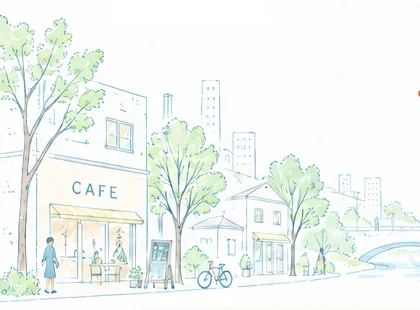
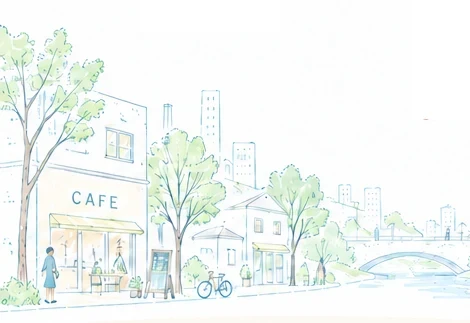
feat: ファーストビューを fndesign-v5.png に合わせて調整（本業をコーラルに、見出しとイラストを大きく）

Changed region(s): [[0.0, 0.029, 1.0, 0.9871], [0.9905, 0.2903, 1.0, 0.3194]]

diff --git a/src/components/HeroV4.tsx b/src/components/HeroV4.tsx
@@ -16,7 +16,7 @@ const CORAL = "#FD7368";
 
 const ja = {
     eyebrow: "埼玉の会社・お店・教室のためのWeb担当",
-    h1a: "あなたは、本業に。",
+    h1a: <>あなたは、<span style={{ color: "#E8503A" }}>本業</span>に。</>,
     h1web: "Web",
     h1b: "は、私たちに。",
     lead: "ホームページ制作から、公開後の更新・管理まで。",
@@ -38,7 +38,7 @@ const ja = {
 
 const en: typeof ja = {
     eyebrow: "WEB SUPPORT FOR COMPANIES, SHOPS AND SCHOOLS IN SAITAMA",
-    h1a: "You run the business.",
+    h1a: <>You run the <span style={{ color: "#E8503A" }}>business</span>.</>,
     h1web: "Web",
     h1b: " is on us.",
     lead: "From building the site to updating and managing it after launch.",
@@ -67,11 +67,11 @@ export default function HeroV4({ lang = "ja" }: { lang?: Lang }) {
             {/* ── 上段：白地。イラストはこの箱の下辺に揃える ── */}
             <div className="relative pt-[108px] md:pt-[120px]">
                 {/* 街並みのイラスト（PCのみ） */}
-                <div aria-hidden className="pointer-events-none absolute bottom-0 left-0 hidden w-[27%] max-w-[420px] lg:block">
-                    <Image src={townLeft} alt="" sizes="28vw" className="h-auto w-full" priority />
+                <div aria-hidden className="pointer-events-none absolute bottom-0 left-0 hidden w-[30.5%] max-w-[470px] lg:block">
+                    <Image src={townLeft} alt="" sizes="31vw" className="h-auto w-full" priority />
                 </div>
-                <div aria-hidden className="pointer-events-none absolute bottom-0 right-0 hidden w-[25.5%] max-w-[392px] lg:block">
-                    <Image src={townRight} alt="" sizes="26vw" className="h-auto w-full" priority />
+                <div aria-hidden className="pointer-events-none absolute bottom-0 right-0 hidden w-[32.5%] max-w-[500px] lg:block">
+                    <Image src={townRight} alt="" sizes="33vw" className="h-auto w-full" priority />
                 </div>
 
                 {/* 手書き風の添え文（左）と英字（右） */}
@@ -100,7 +100,7 @@ export default function HeroV4({ lang = "ja" }: { lang?: Lang }) {
                         {t.eyebrow}
                     </p>
                     <h1
-                        className={`${heavy.className} mb-3 text-[clamp(2.15rem,min(6.4vw,8vh),4.6rem)] leading-[1.1] tracking-[-0.02em]`}
+                        className={`${heavy.className} mb-3 text-[clamp(2.15rem,min(6.9vw,8.6vh),5.2rem)] leading-[1.08] tracking-[-0.03em]`}
                         style={{ color: NAVY }}
                     >
                         <span className="block">{t.h1a}</span>
@@ -157,8 +157,8 @@ export default function HeroV4({ lang = "ja" }: { lang?: Lang }) {
 
                 {/* 街並みのイラスト（スマホ・タブレット：本文の下に左右並び） */}
                 <div aria-hidden className="pointer-events-none -mt-2 flex items-end justify-between lg:hidden">
-                    <Image src={townLeft} alt="" sizes="55vw" className="h-auto w-[54%]" priority />
-                    <Image src={townRight} alt="" sizes="50vw" className="h-auto w-[48%]" priority />
+                    <Image src={townLeft} alt="" sizes="55vw" className="h-auto w-[50%]" priority />
+                    <Image src={townRight} alt="" sizes="50vw" className="h-auto w-[52%]" priority />
                 </div>
             </div>
         </section>

diff --git a/src/components/TrustBar.tsx b/src/components/TrustBar.tsx
@@ -8,7 +8,7 @@ const ja = [
     { key: "since", value: "2021", unit: "年", label: "創業", note: "制作から公開後の運用まで。", tone: "navy" },
     { key: "count", value: "100", unit: "社以上", label: "制作・支援実績", note: "会社・店舗・教室など幅広く。", tone: "teal" },
     { key: "home", value: "本庄", unit: "", label: "代表の出身地", note: "埼玉とのつながりを大切に。", tone: "navy" },
-    { key: "area", value: "全国対応", unit: "", label: "LINE・メールで相談・進行", note: "埼玉を中心に、全国へ。", tone: "teal" },
+    { key: "area", value: "全国対応", unit: "", label: "LINE・メールで完結", note: "埼玉を中心に、全国へ。", tone: "teal" },
 ];
 const en: typeof ja = [
     { key: "since", value: "2021", unit: "", label: "Founded", note: "From build to day-to-day upkeep.", tone: "navy" },
